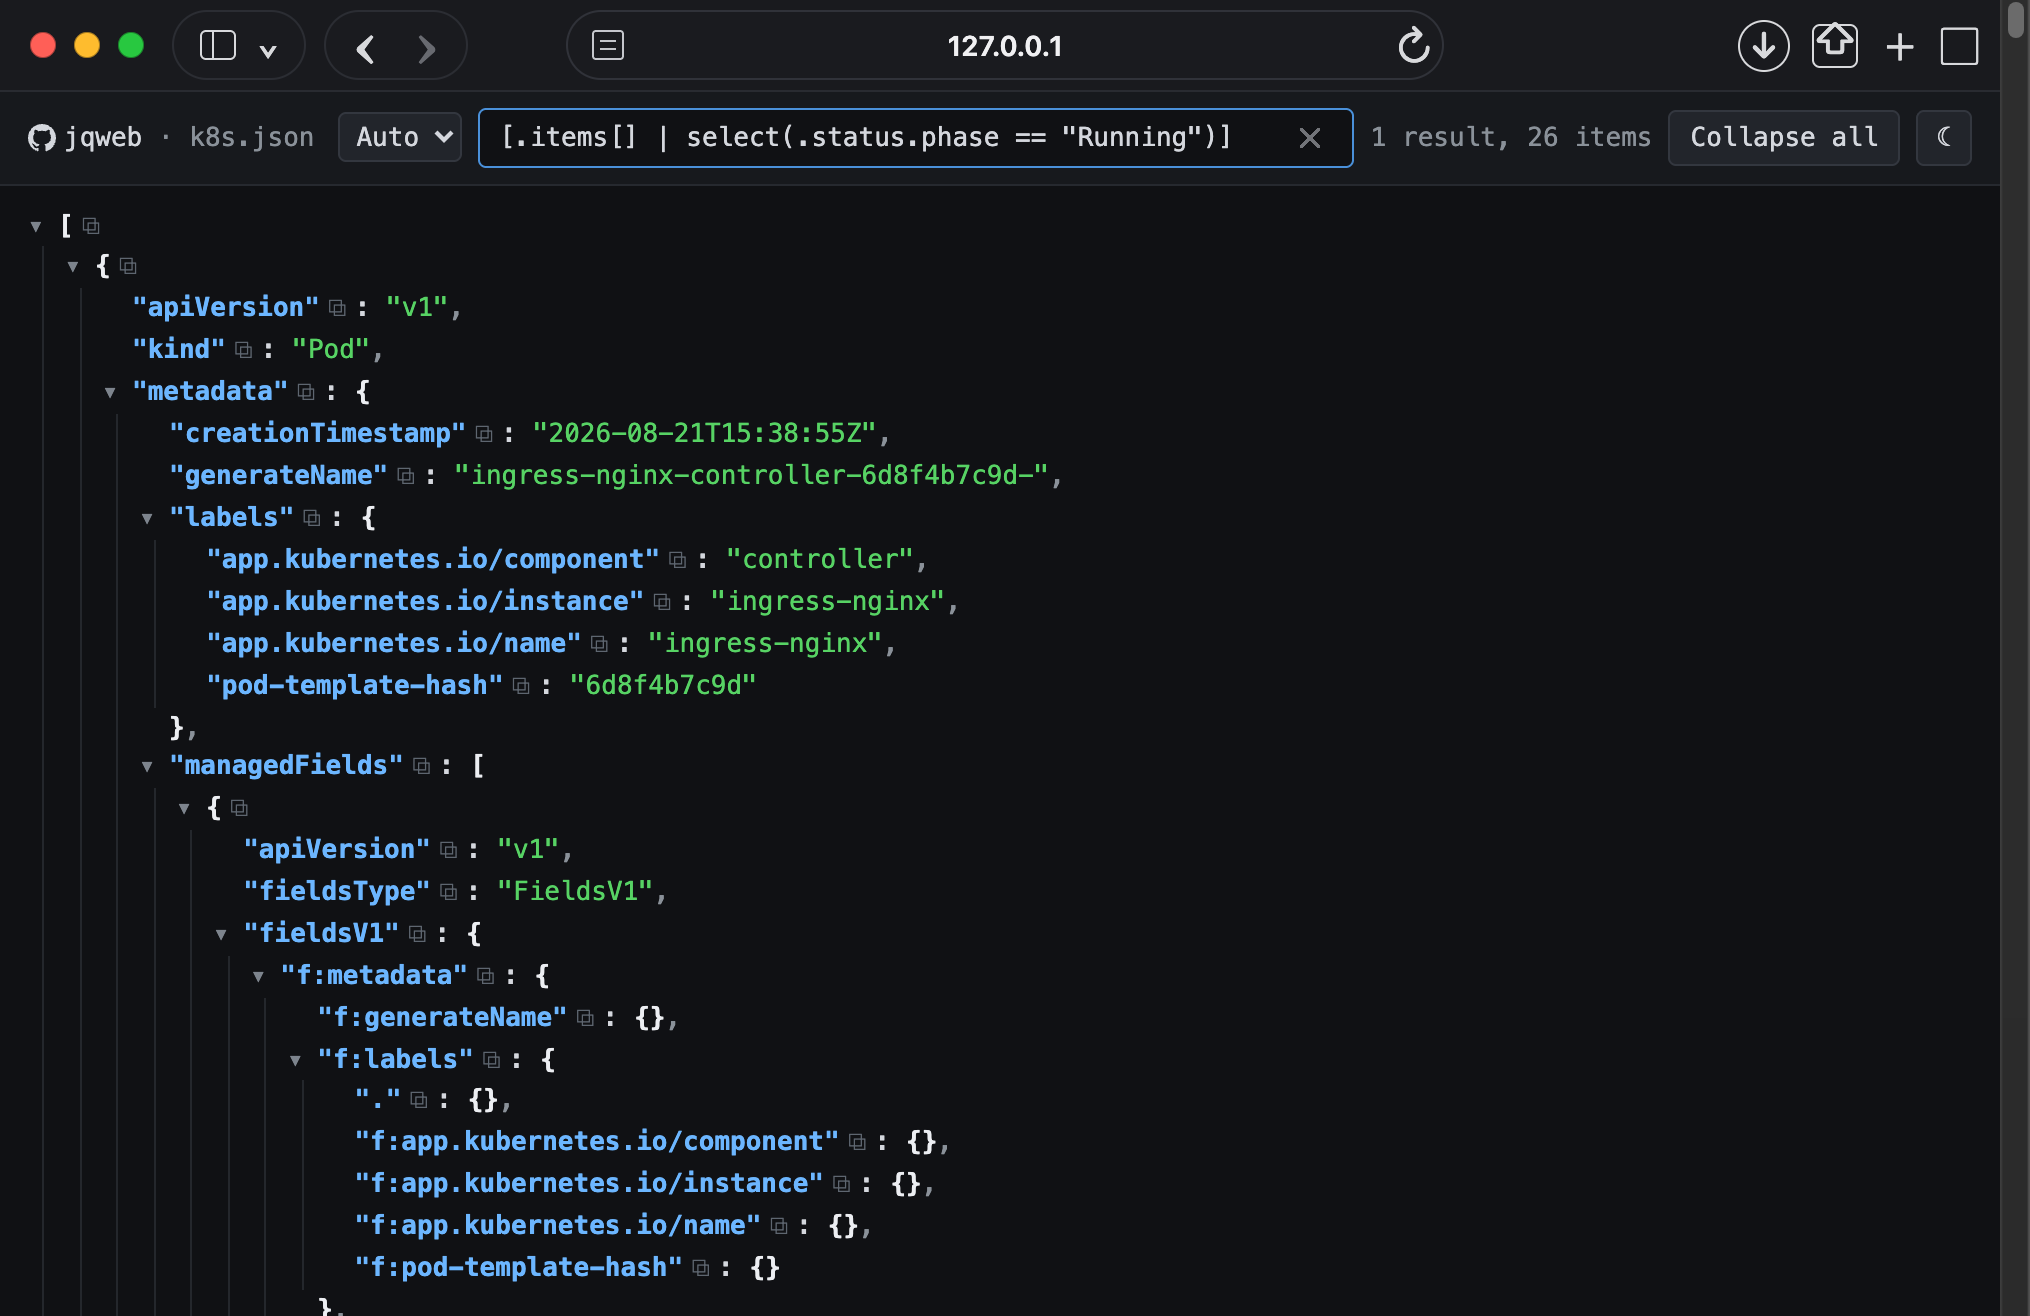
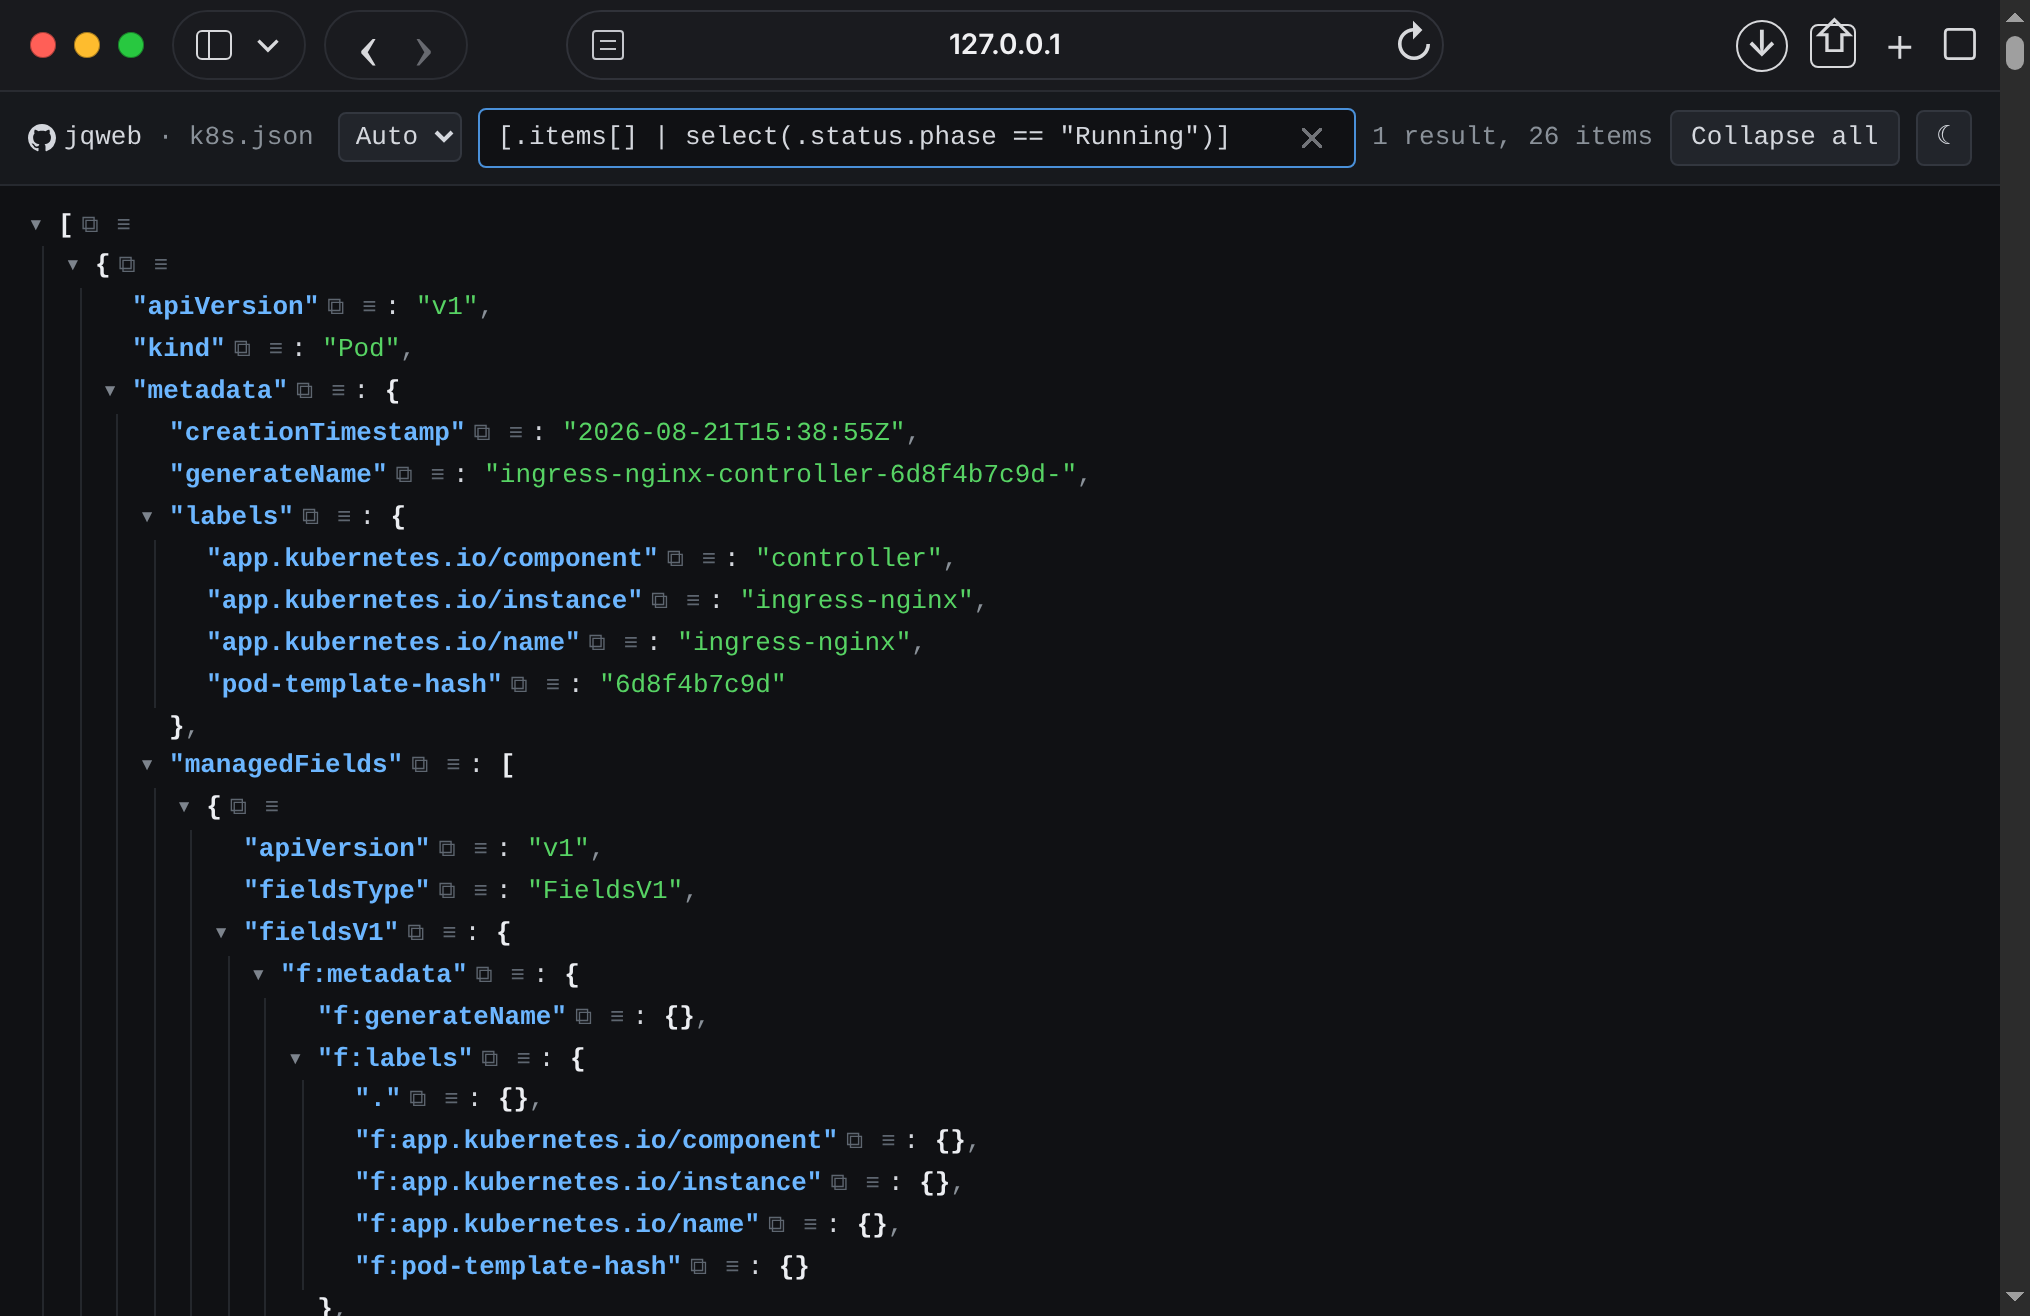
Prepare v1.0.0 release notes
Claude-Session: https://claude.ai/code/session_014ipa8e6TNqzLe1Cez5LXqF

diff --git a/CHANGELOG.md b/CHANGELOG.md
@@ -9,6 +9,8 @@ above the commit list GoReleaser generates.
 
 ## [Unreleased]
 
+## [1.0.0] - 2026-10-19
+
 ### JSON streams
 
 JSON Lines (JSONL) and other streams of multiple JSON values are automatically
@@ -341,7 +343,8 @@ The first release: a JSON document rendered as one self-contained HTML page,
 served or written to a file, with a flag to open a browser on it and a flag to
 report the version.
 
-[Unreleased]: https://github.com/zafnz/jqweb/compare/v0.10.1...HEAD
+[Unreleased]: https://github.com/zafnz/jqweb/compare/v1.0.0...HEAD
+[1.0.0]: https://github.com/zafnz/jqweb/compare/v0.10.1...v1.0.0
 [0.10.1]: https://github.com/zafnz/jqweb/compare/v0.10.0...v0.10.1
 [0.10.0]: https://github.com/zafnz/jqweb/compare/v0.9.0...v0.10.0
 [0.9.0]: https://github.com/zafnz/jqweb/compare/v0.8.0...v0.9.0
